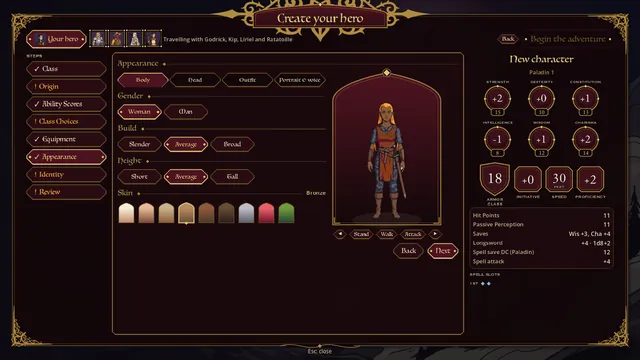
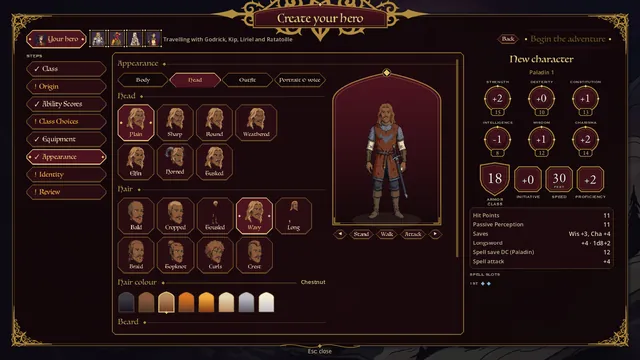
Creator shot on the hairstyles, with a man; the FAQ points to the real Curse of Strahd on D&D Beyond

diff --git a/index.html b/index.html
@@ -437,7 +437,7 @@
     </div>
     <div class="party-notes">
       <div>
-        <img class="note-shot" src="media/thumbs/creator_appearance.webp" alt="The hero creator's appearance step" loading="lazy">
+        <img class="note-shot" src="media/thumbs/creator_appearance.webp" alt="The hero creator's hairstyles, on a man with a full beard" loading="lazy">
         <h3>Or bring your own</h3>
         <p>Make a hero in a full appearance creator (body, height, head, hair, beard, skin, outfit, portrait and voice)
           and build them step by step: class, origin, ability scores and gear, with recommendations at every step
@@ -547,7 +547,7 @@
       <button data-full="media/shots/village_night.webp" data-caption="The Village of Barovia at night"><img src="media/thumbs/village_night.webp" alt="The Village of Barovia at night" loading="lazy"></button>
       <button data-full="media/shots/dialogue_busts.webp" data-caption="Kip at the inn, a bust on each side"><img src="media/thumbs/dialogue_busts.webp" alt="Kip at the inn, a bust on each side" loading="lazy"></button>
       <button data-full="media/shots/vallaki_rain.webp" data-caption="Rain over Vallaki at dusk"><img src="media/thumbs/vallaki_rain.webp" alt="Rain over Vallaki at dusk" loading="lazy"></button>
-      <button data-full="media/shots/creator_appearance.webp" data-caption="Make your own hero: choosing their look"><img src="media/thumbs/creator_appearance.webp" alt="Make your own hero: choosing their look" loading="lazy"></button>
+      <button data-full="media/shots/creator_appearance.webp" data-caption="Make your own hero: picking his hairstyle"><img src="media/thumbs/creator_appearance.webp" alt="Make your own hero: picking his hairstyle" loading="lazy"></button>
       <button data-full="media/shots/dialogue_check.webp" data-caption="Liriel speaks for the party, and the check shows her chance"><img src="media/thumbs/dialogue_check.webp" alt="Liriel speaks for the party, and the check shows her chance" loading="lazy"></button>
       <button data-full="media/shots/castle_vista.webp" data-caption="The gates of Castle Ravenloft in a storm"><img src="media/thumbs/castle_vista.webp" alt="The gates of Castle Ravenloft in a storm" loading="lazy"></button>
       <button data-full="media/shots/combat_odds.webp" data-caption="Hover a foe for the chance to hit, the damage and any Advantage"><img src="media/thumbs/combat_odds.webp" alt="Hover a foe for the chance to hit, the damage and any Advantage" loading="lazy"></button>
@@ -598,7 +598,9 @@
         <p>No. It's an unofficial, free fan game made by one fan. It isn't made, approved, endorsed or sponsored by
           Wizards of the Coast, and it has no connection to them. <em>Curse of Strahd</em>, <em>Dungeons &amp;
           Dragons</em> and Ravenloft belong to Wizards of the Coast. If you want the real thing, the
-          <em>Curse of Strahd</em> adventure book is published by Wizards of the Coast.</p>
+          <em>Curse of Strahd</em> adventure book is published by Wizards of the Coast:
+          <a href="https://marketplace.dndbeyond.com/adventures/curse-of-strahd" rel="noopener">get it on D&amp;D
+          Beyond</a>.</p>
       </details>
       <details>
         <summary>Do I need to know D&amp;D to play?</summary>

diff --git a/tools/build.py b/tools/build.py
@@ -53,7 +53,7 @@ SHOTS = {
 	"character_sheet": "The character sheet, with a number's breakdown",
 	"inventory": "The inventory's paper doll",
 	"inventory_list": "The inventory in its list view",
-	"creator_appearance": "Make your own hero: choosing their look",
+	"creator_appearance": "Make your own hero: picking his hairstyle",
 	"dialogue_busts": "Kip at the inn, a bust on each side",
 	"travel_map": "The travel map of Barovia",
 	"skirmish": "Skirmish and the Character Lab",
